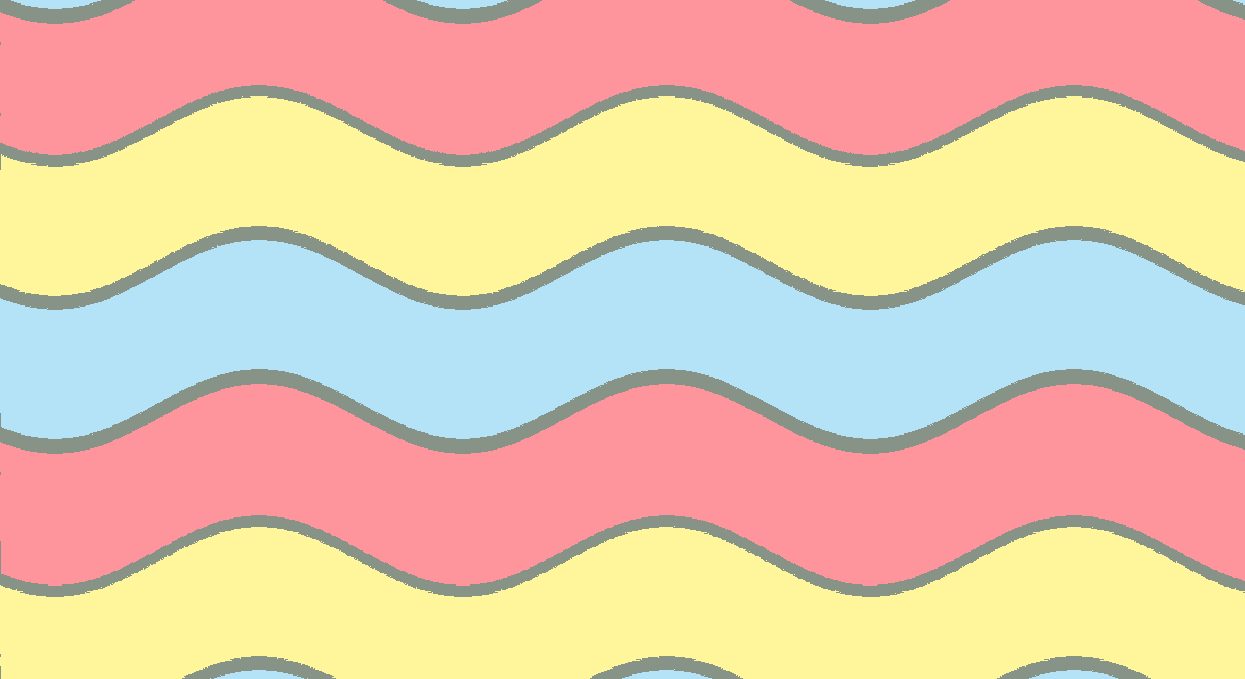
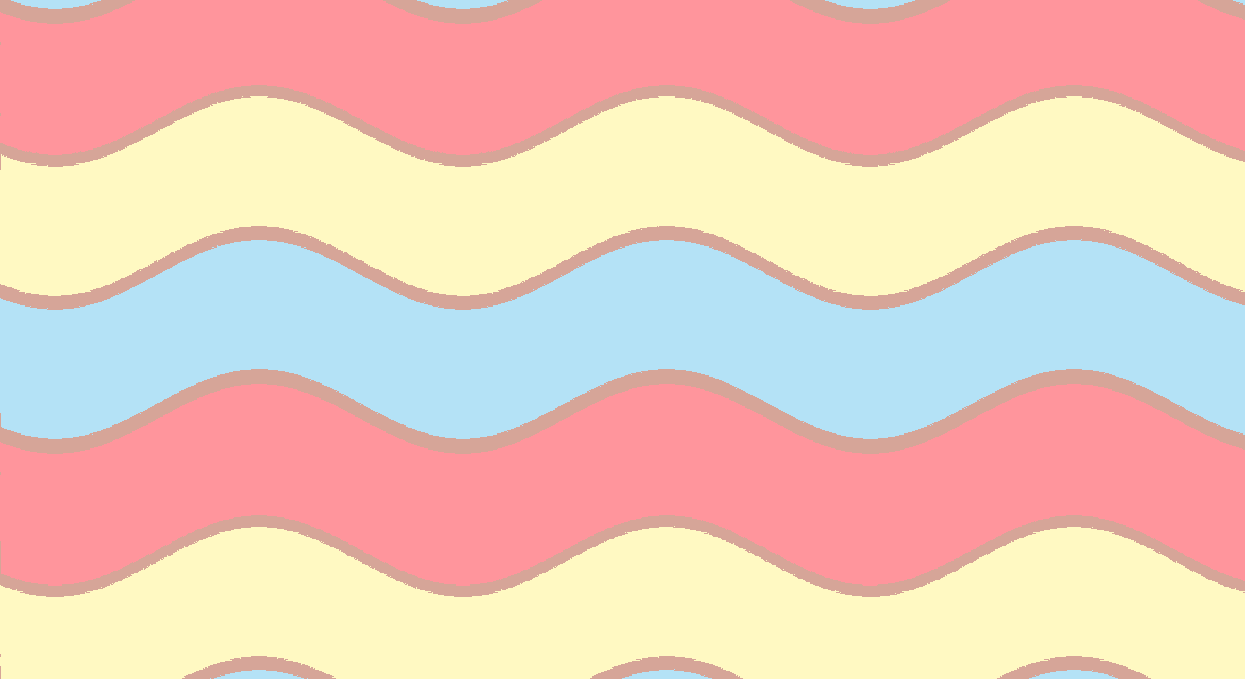
graphics update
-level pieces are rotated when created instead of behaving differently
-level pieces have a better colour pattern
-updated bg colours
-updated level colours
-update player colours
-transition is a wipe

diff --git a/client/arena.js b/client/arena.js
@@ -537,12 +537,21 @@ Arena.prototype.genWallHorz = function(y, boundaryRadius){
 	var pieces = [];
 	while( x < size.x + boundaryRadius){
 		var pc = new LevelPiece();
+
+		if(y > size.x/2){
+			pc.graphics.rotation = Math.PI;
+		}else{
+			pc.graphics.rotation = 0;
+		}
+
 		pc.init(x, y + boundaryRadius * 0.5 * ( y > 0 ? 1 : -1), boundaryRadius, colors[c]);
 		this.levelPiecesHorz.push(pc);
 		pieces.push(pc);
 		x += boundaryRadius;
 
-		c = (c+1)%colors.length;
+		if(pieces.length == 1 || pieces.length%2 == 0){
+			c = (c+1)%colors.length;
+		}
 
 	}
 
@@ -560,13 +569,21 @@ Arena.prototype.genWallVert = function(x, boundaryRadius){
 	var pieces = [];
 	while( y < size.y + boundaryRadius){
 		var pc = new LevelPiece();
+
+		if(x > size.x/2){
+			pc.graphics.rotation = Math.PI/2;
+		}else{
+			pc.graphics.rotation = -Math.PI/2;
+		}
+
 		pc.init( x + boundaryRadius * 0.5 * ( x > 0 ? 1 : -1), y, boundaryRadius, colors[c]);
 		this.levelPiecesVert.push(pc);
 		pieces.push(pc);
 		y += boundaryRadius;
 
-		c = (c+1)%colors.length;
-
+		if(pieces.length == 1 || pieces.length%2 == 0){
+			c = (c+1)%colors.length;
+		}
 	}
 
 	// add pieces to scene, starting from middle and working outwards
@@ -597,11 +614,11 @@ Arena.prototype.updateLevel = function(){
 		var ratioX = (entity.px - entityPieces.x[0].px) / (entityPieces.x[1].px - entityPieces.x[0].px);
 		var ratioY = (entity.py - entityPieces.y[0].py) / (entityPieces.y[1].py - entityPieces.y[0].py);
 
-		entityPieces.x[0].compress(1, clamp(0.1, lerp(1.0, distX, 1.0-ratioX), 1.0));
-		entityPieces.x[1].compress(1, clamp(0.1, lerp(1.0, distX, ratioX), 1.0));
+		entityPieces.x[0].compress(clamp(0.1, lerp(1.0, distX, 1.0-ratioX), 1.0));
+		entityPieces.x[1].compress(clamp(0.1, lerp(1.0, distX, ratioX), 1.0));
 		
-		entityPieces.y[0].compress(clamp(0.1, lerp(1.0, distY, 1.0-ratioY), 1.0), 1);
-		entityPieces.y[1].compress(clamp(0.1, lerp(1.0, distY, ratioY), 1.0), 1);
+		entityPieces.y[0].compress(clamp(0.1, lerp(1.0, distY, 1.0-ratioY), 1.0));
+		entityPieces.y[1].compress(clamp(0.1, lerp(1.0, distY, ratioY), 1.0));
 
 		// debug pieces for player 1
 		if(i == 0){

diff --git a/client/player.js b/client/player.js
@@ -157,7 +157,7 @@ Player.prototype.update = function(){
 Player.prototype.draw = function(){
 	// head
 	this.head.clear();
-	this.head.beginFill(0xFF0000);
+	this.head.beginFill(0xff959c);
 	renderSVG(this.head, "M9.264,2.32c0,0,4.625-43.945-11.404-37.715c-16.028,6.231-9.04,36.543-6.969,38.347C3.679,15.435,9.264,2.32,9.264,2.32");
 	this.head.beginFill(0xFFFFFF);
 	this.head.drawEllipse(-5,-20, 3, 6);
@@ -166,31 +166,31 @@ Player.prototype.draw = function(){
 
 	// body
 	this.body.clear();
-	this.body.beginFill(0xFF3300);
+	this.body.beginFill(0x6a689c);
 	renderSVG(this.body, "M21.473,10.333c-0.973,1.167-42.303,0.833-43.138,0S-21.624-36.046,0-36.046S22.446,9.167,21.473,10.333z");
 	this.body.endFill();
 
 
 	// feet
 	this.footL.clear();
-	this.footL.beginFill(0xFF3300);
+	this.footL.beginFill(0x8aa548);
 	renderSVG(this.footL, "M11.858,6.407C12.25,5.625,11.56-6.693-0.078-6.402C-11.715-6.111-12.278,5.876-11.858,6.407S11.858,6.407,11.858,6.407z");
 	this.footL.endFill();
 
 	this.footR.clear();
-	this.footR.beginFill(0xFF3300);
+	this.footR.beginFill(0x8aa548);
 	renderSVG(this.footR, "M11.858,6.407C12.25,5.625,11.56-6.693-0.078-6.402C-11.715-6.111-12.278,5.876-11.858,6.407S11.858,6.407,11.858,6.407z");
 	this.footR.endFill();
 
 	// arms
 	this.arms.clear();
-	this.arms.beginFill(0xFF3300);
+	this.arms.beginFill(0x6a689c);
 	renderSVG(this.arms, "M52.272-1.429l-22.429,5.81L12.71,8.503c0,0-2.934-0.111-3.997-3.051C7.688,2.612,11,1.587,11,1.587L27.763-2.04l23.888-5.738L52.272-1.429z");
 	this.arms.endFill();
-	this.arms.beginFill(0xFF3300);
+	this.arms.beginFill(0x6a689c);
 	renderSVG(this.arms, "M-10.174-13.653L-46.25-3.484l30.947,10.988c0,0,3.137,2.161,5.496-0.904c2.278-2.96-1.265-5.428-1.265-5.428c-0.903-0.603-19.149-4.619-19.149-4.619l21.888-4.605L-10.174-13.653z");
 	this.arms.endFill();
-	this.arms.beginFill(0xFF3300);
+	this.arms.beginFill(0xb38589);
 	renderSVG(this.arms, "M46.73-3.297L44.609-13.81l-9-5.978l1.438-2.165l8.775,5.828c0,0,5.263-8.557,5.741-8.757s2.124,1.447,2.124,1.447l-5.925,8.989l2.141,10.509L46.73-3.297z");
 	this.arms.endFill();
 

diff --git a/client/main.js b/client/main.js
@@ -27,6 +27,7 @@ function init(){
 	renderSprite.filters = [screen_filter];
 
 	transition = -1;
+	transitionDirection = 1;
 
 
 	menu = new Menu();
@@ -53,6 +54,7 @@ function update(){
 		menu.update();
 		if(menu.isDone()){
 			transition = Math.max(0.0, transition-0.02);
+			transitionDirection = -1;
 			if(transition < 0.0001){
 				arena = new Arena(menu.getPlayers());
 				menu.destroy();
@@ -60,11 +62,13 @@ function update(){
 			}
 		}else{
 			transition = Math.min(1.0, transition+0.02);
+			transitionDirection = 1;
 		}
 	}else if(arena){
 		arena.update();
 		if(arena.done){
 			transition = Math.max(0.0, transition-0.02);
+			transitionDirection = -1;
 			if(transition < 0.0001){
 				arena.destroy();
 				arena = false;
@@ -73,8 +77,10 @@ function update(){
 			}
 		}else{
 			transition = Math.min(1.0, transition+0.02);
+			transitionDirection = 1;
 		}
 	}else{
+		
 	}
 	
 	// update input managers
@@ -86,6 +92,7 @@ function update(){
 
 function render(){
 	screen_filter.uniforms["transition"] = transition;
+	screen_filter.uniforms["transitionDirection"] = transitionDirection;
 	screen_filter.uniforms["time"] = curTime/1000;
 
 	if(menu){
@@ -175,4 +182,4 @@ function getInput(_playerId){
 	return res;
 }
 
-var colors = [0xff0000, 0xffff00, 0x0000ff];
+var colors = [0xf70208, 0xffec6b, 0x29018c];

diff --git a/client/level-piece.js b/client/level-piece.js
@@ -23,7 +23,9 @@ LevelPiece.prototype.init = function(x, y, rad, color){
 
 LevelPiece.prototype.renderShape = function(){
 	this.graphics.clear();
-	this.graphics.lineStyle(0);
+	this.graphics.beginFill(0x7a5e57);
+	this.graphics.drawCircle(0, 20, this.rad);
+	this.graphics.endFill();
 	this.graphics.beginFill(this.color);
 	this.graphics.drawCircle(0, 0, this.rad);
 	this.graphics.endFill();
@@ -44,10 +46,7 @@ LevelPiece.prototype.draw = function(){
 	}
 };
 
-LevelPiece.prototype.compress = function(x, y){
-	if(x < this.graphics.scale.x){
-		this.graphics.scale.x = lerp(this.graphics.scale.x, x, 0.25);
-	}
+LevelPiece.prototype.compress = function(y){
 	if(y < this.graphics.scale.y){
 		this.graphics.scale.y = lerp(this.graphics.scale.y, y, 0.25);
 	}
